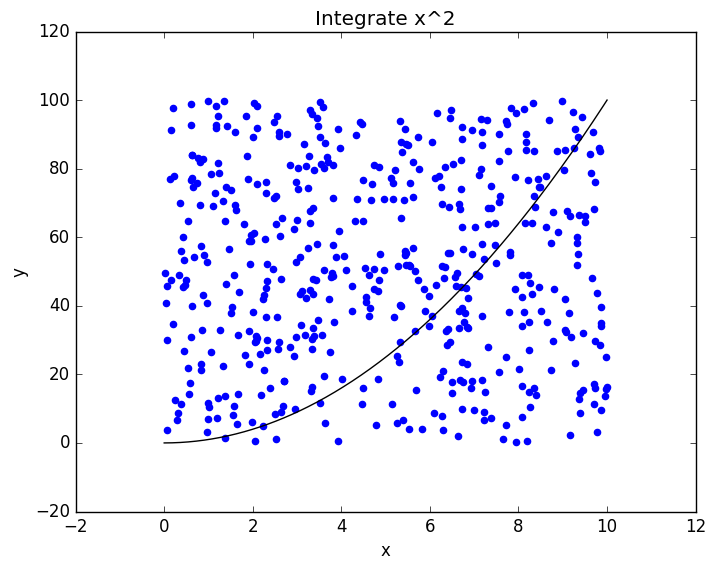
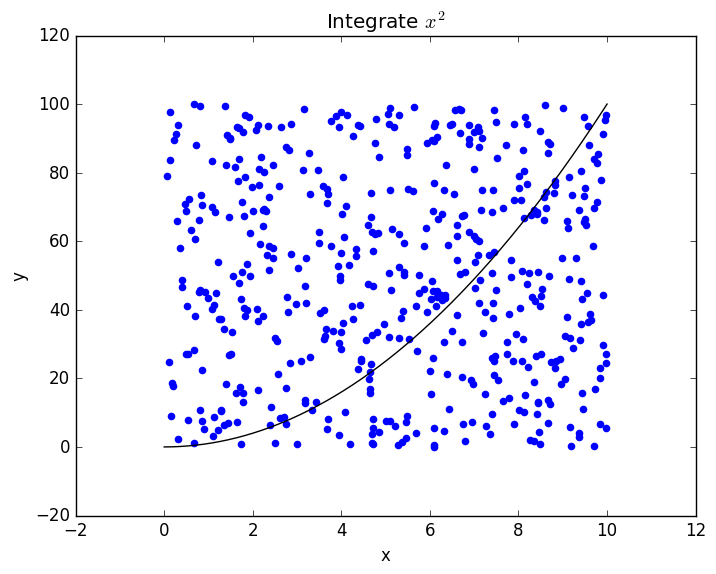
math typesetting

diff --git a/MonteCarloPi.py b/MonteCarloPi.py
@@ -59,6 +59,6 @@ pyplot.plot(xr,f2(xr),color='black')
 #pyplot.axis([x0,x1,y0,y1])
 pyplot.xlabel('x')
 pyplot.ylabel('y')
-pyplot.title('Approximate pi=3.14')
+pyplot.title('Approximate $\pi$')
 pyplot.savefig('MCpi.png', bbox_inches='tight')
 pyplot.show()

diff --git a/MonteCarlo.py b/MonteCarlo.py
@@ -40,6 +40,6 @@ pyplot.plot(x,f(x),c='black')
 pyplot.scatter(xg,yg,color='blue')
 pyplot.xlabel('x')
 pyplot.ylabel('y')
-pyplot.title('Integrate x^2')
+pyplot.title('Integrate $x^2$')
 pyplot.savefig('MCint.png', bbox_inches='tight')
 pyplot.show()
